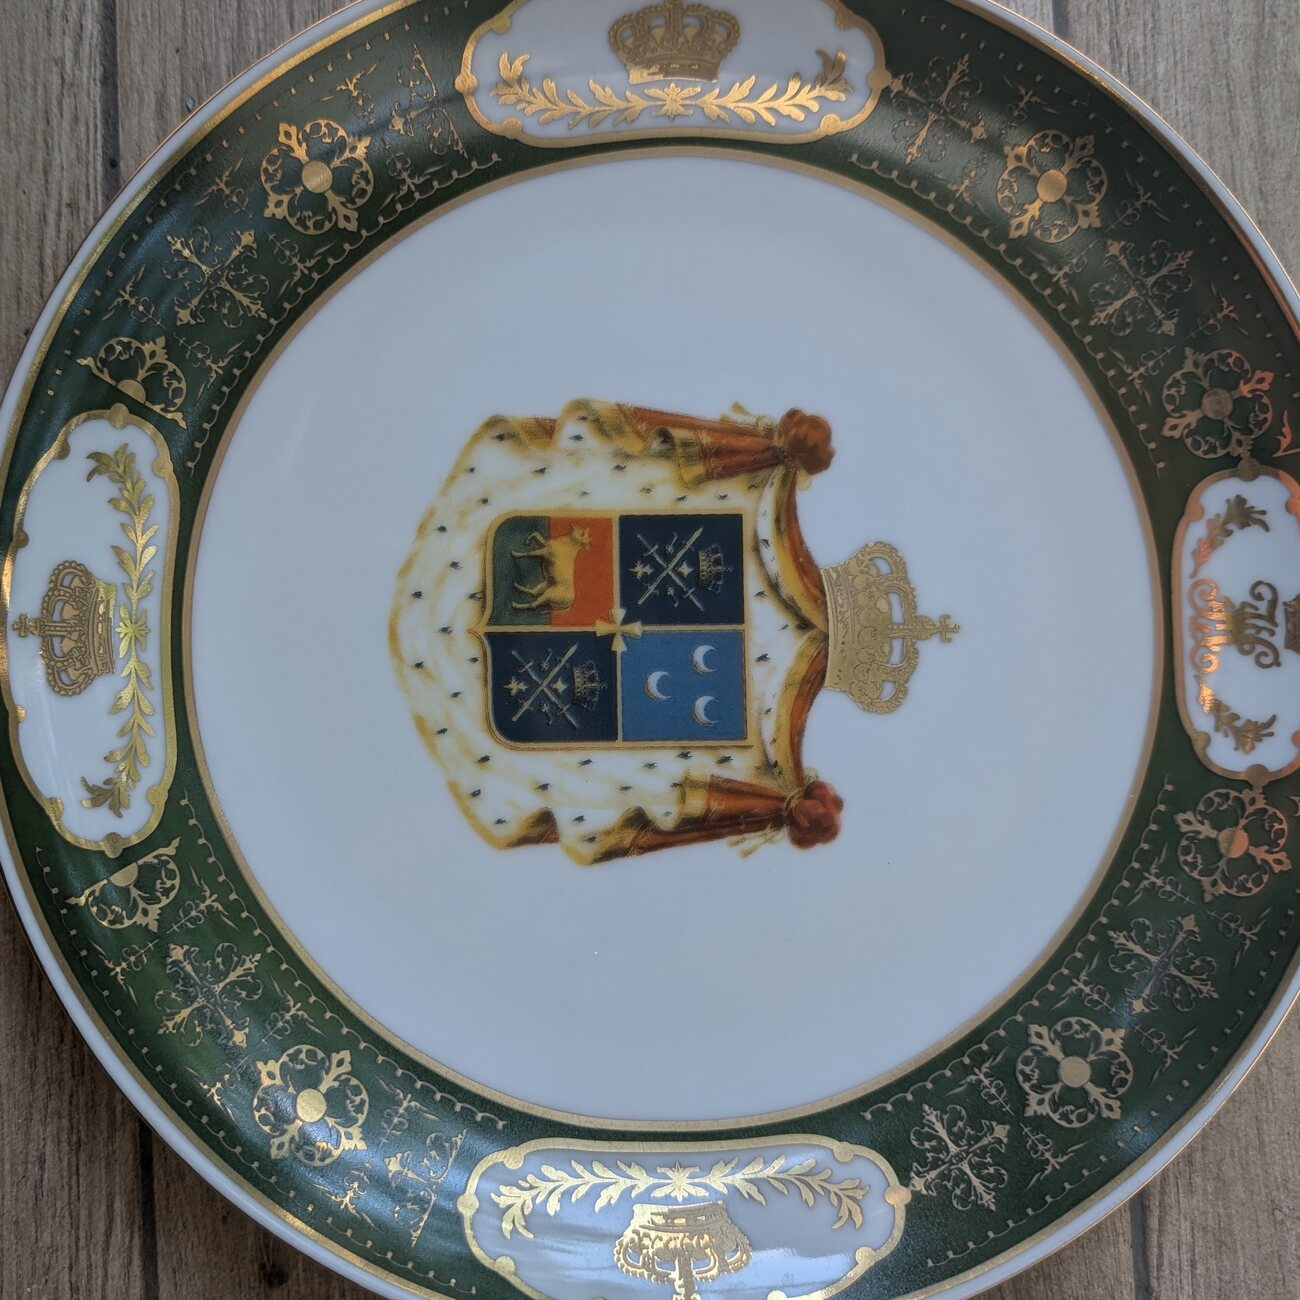
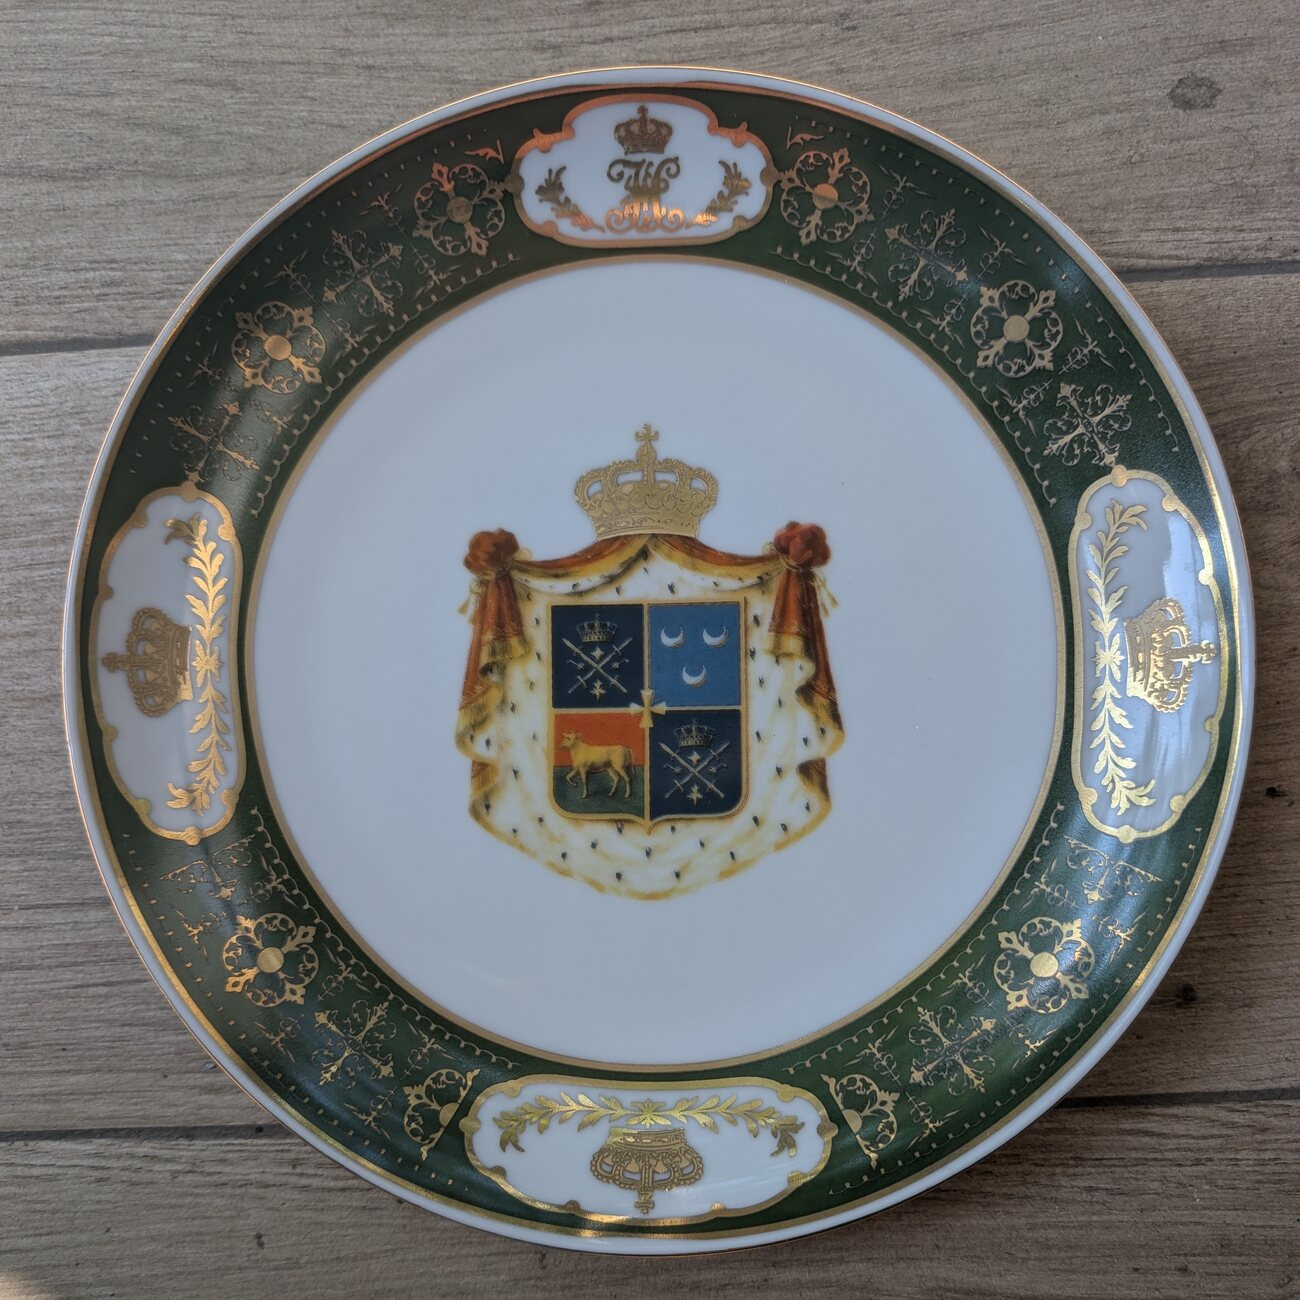
Fix plate orientation and tighten the home hero
- Rotate the front plate 90° CCW so the achievement stands upright
  (crown up, MN monogram at the crest); crop with margin so the full
  plate edge shows instead of being cut off.
- Home hero: recrop the house photo to lead with the historic facade
  (drop the empty sky / high-rise band), remove the white bottom fade,
  and reduce top padding / min-height.

diff --git a/assets/css/style.css b/assets/css/style.css
@@ -484,24 +484,19 @@ section { position: relative; }
    HOME PAGE (index.html)
    ============================================================ */
 .home-hero {
-  min-height: 88vh;
+  min-height: 78vh;
   display: grid; align-items: center;
   position: relative; overflow: hidden;
   background:
     linear-gradient(180deg,
-      color-mix(in srgb, var(--green-950) 62%, transparent) 0%,
-      color-mix(in srgb, var(--green-900) 40%, transparent) 42%,
-      color-mix(in srgb, var(--green-950) 88%, transparent) 100%),
-    url("../img/house.jpg") center 32% / cover no-repeat,
+      color-mix(in srgb, var(--green-950) 52%, transparent) 0%,
+      color-mix(in srgb, var(--green-900) 34%, transparent) 42%,
+      color-mix(in srgb, var(--green-950) 80%, transparent) 100%),
+    url("../img/house.jpg") center 42% / cover no-repeat,
     var(--green-900);
   color: var(--cream);
   text-align: center;
-  padding: 6rem 0 4.5rem;
-}
-.home-hero::after { /* soft blend into the section below */
-  content: ""; position: absolute; left: 0; right: 0; bottom: 0; height: 22%;
-  background: linear-gradient(180deg, transparent, var(--porcelain));
-  pointer-events: none;
+  padding: 3rem 0 3.5rem;
 }
 .home-hero__inner { position: relative; z-index: 2; }
 .home-hero h1 {